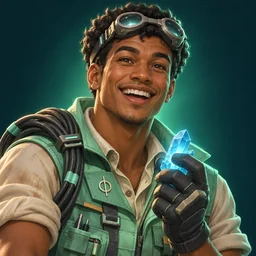
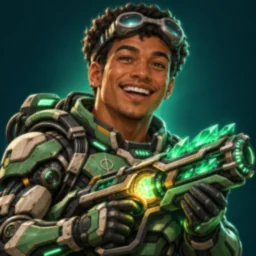
Codex's new armoured story portraits for all nine characters (Rask and Lind repainted)
Painted by Codex (codex/portraits-rask-lind 63d7f25), owner-picked Rask 3 and Lind 2;
Rask's and Lind's portrait text updated to match the new art.

diff --git a/github-io/src/story/world.js b/github-io/src/story/world.js
@@ -151,7 +151,7 @@ export const CAST = {
     faction: "veil",
     personality: "Quiet, dry and loyal; he walks the dark roads so the Archivist never has to.",
     speech: "Few words, low voice, field reports. Calls Maren \"Archivist\" and counts his squad out loud.",
-    portrait: "Bust, three-quarter view. Young man in his twenties, deep brown skin, short black hair, a violet scarf pulled down to his chin. Charcoal hooded field jacket with silver piping, a small violet seer lens clipped over one ear. Calm, watchful eyes, the corner of a smile.",
+    portrait: "Bust, three-quarter view. Strong young pilot in his twenties, dark tousled hair under a violet hood, a violet scarf at his chin. Charcoal and violet Veil armour with glowing seams, a violet crescent blade in hand. Calm, watchful eyes.",
     samples: [
       "West mast in sight. They have not seen us.",
       "Every crew is out, Archivist. I counted them twice, the way you taught me.",
@@ -164,7 +164,7 @@ export const CAST = {
     faction: "wardens",
     personality: "Brisk, practical and fond of old machines; she trusts a sound bolt more than a promise.",
     speech: "Quick and plain, with workshop words. Talks to Wardens by their numbers and to people as equals.",
-    portrait: "Bust, facing front. Woman in her late twenties, light olive skin with freckles, cropped copper-red hair. Patched blue coveralls with the three-circle emblem stitched on the chest, a band of pale blue Warden lights across her forehead, a spanner over one shoulder. Grin with one eyebrow up.",
+    portrait: "Bust, facing front. Woman in her late twenties, short dark hair, a band of pale blue Warden lights across her forehead. Blue Warden armour with the three-circle emblem, a glowing blue photon lance over one shoulder. A bright, confident smile.",
     samples: [
       "Two towers and a squad hold the line. Build early.",
       "Four hundred years of orders, and the first thing they chose was to guard.",
